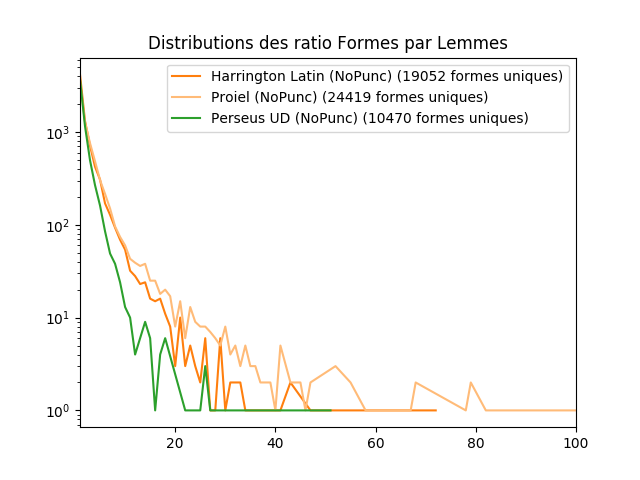
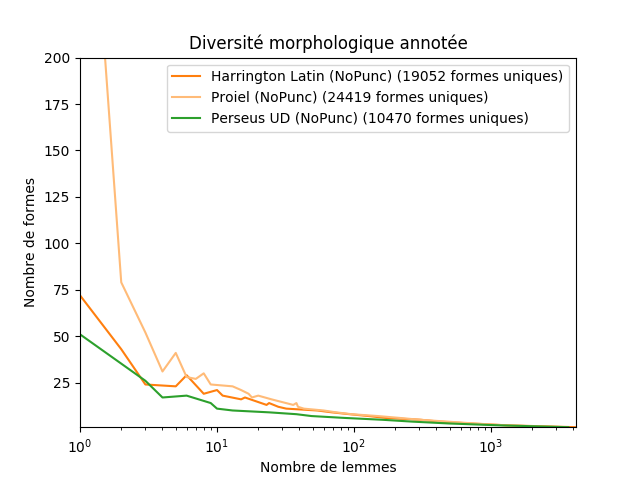
Fixed a big bug on transpose

diff --git a/analysis/general_analysis/treebank_analysis.py b/analysis/general_analysis/treebank_analysis.py
@@ -2,7 +2,7 @@ from .corpus_analysis import time_analysis
 import collections
 from helpers.reader.curated import get_graph, get_texts, get_text_length_dict
 from helpers.metadata import wordcounts
-from helpers.treebanks import Corpora, flatten_doc_dict, Filtered_Corpora, doc_token_dict_sum, distribution
+from helpers.treebanks import Corpora, flatten_doc_dict, Filtered_Corpora, doc_token_dict_sum, distribution, idict
 import matplotlib.pyplot as plt
 import copy
 import pandas
@@ -18,7 +18,8 @@ def draw_tokens_representation(
         series, fname,
         title="Mots écrits par auteur vivant à une période donnée", template="{corpus} ({words} mots)",
         kind="line",
-        colors_index_offset=0, plot_kwargs=None, base_fig=None, dimension=(12, 14)):
+        colors_index_offset=0, plot_kwargs=None, base_fig=None, dimension=(12, 14),
+        ylabel=None, xlabel=None):
 
     """ Draw the series in one fig"""
     if plot_kwargs is None:
@@ -54,11 +55,21 @@ def draw_tokens_representation(
             **plot_kwargs
         )
         index += 1
+
+        if xlabel:
+            ax.set_xlabel(xlabel)
+            xlabel = None
+        if ylabel:
+            ax.set_ylabel(ylabel)
+            ylabel = None
+
         fig.add_axes(ax)
 
     # Put a legend below current axis
     fig.legend(loc='upper center', bbox_to_anchor=(0.5, -0.05), fancybox=True, shadow=True, ncol=5)
 
+
+    # Labels
     plt.savefig(fname)
     return fig
 
@@ -132,7 +143,10 @@ def draw_series_graph(data, hypothetical):
             (serie.name, serie.word_count, serie.tokens_per_year)
             for serie in data
         ],
-        fname="results/analysis/treebank_analysis/treebank_representativite.png"
+        fname="results/analysis/treebank_analysis/treebank_representativite.png",
+        title="Représentatitivité des mots annotés",
+        ylabel="Nombre de mots",
+        xlabel="Année contemporaire à l'auteur"
     )
     draw_tokens_representation(
         series=[
@@ -140,7 +154,9 @@ def draw_series_graph(data, hypothetical):
             for serie in data
         ] + [(hypothetical.name, hypothetical.word_count, hypothetical.accumulated_tokens)],
         title="Mot accumulés",
-        fname="results/analysis/treebank_analysis/treebank_accumulation.png"
+        fname="results/analysis/treebank_analysis/treebank_accumulation.png",
+        ylabel="Nombre de mots accumulés depuis le premier auteur",
+        xlabel="Année contemporaire à l'auteur"
     )
     draw_tokens_representation(
         series=[
@@ -150,7 +166,10 @@ def draw_series_graph(data, hypothetical):
         fname="results/analysis/treebank_analysis/treebank_representativite_texts.png",
         kind="bar",
         template="{corpus} ({words} textes)",
-        title="Textes écrits par auteur vivant à une période donnée"
+        title="Représentatitivité des textes annotés",
+        ylabel="Nombre de textes présents",
+        xlabel="Année contemporaire à l'auteur",
+        plot_kwargs={"xticks": [x for x in range(-250, 800, 50)]}
     )
     draw_tokens_representation(
         series=[
@@ -163,8 +182,10 @@ def draw_series_graph(data, hypothetical):
         ],
         fname="results/analysis/treebank_analysis/treebank_representativite_relatif.png",
         template="{corpus} ({words} mots)",
-        title="Couverture (en %) du corpus latin comptabilisé (Perseus Catalog et Capitains) ",
-        colors_index_offset=2
+        title="Représentativité des corpus annotés",
+        colors_index_offset=2,
+        ylabel="Portion du corpus comptabilisé (Capitains + Perseus Catalog) en % de mots",
+        xlabel="Année"
     )
 
 
@@ -185,14 +206,19 @@ def draw_lemma_distribution():
         (
             corpus.name,
             corpus.diversity["Formes Uniques"],
-            pandas.Series(distribution({k: len(v) for k, v in corpus.lemma_forms.items()}))
+            pandas.Series(idict(
+                distribution(
+                        {k: len(v) for k, v in corpus.lemma_forms.items()}
+                )
+            ))
         )
         for corpus in Filtered_Corpora
     ], fname="results/analysis/treebank_analysis/treebank_distributions_form_lemme_ratio.png",
         template="{corpus} ({words} formes uniques)",
-        title="Distributions des ratio Formes par Lemmes",
+        title="Diversité morphologique annotée",
         colors_index_offset=2,
-        plot_kwargs={"logy": True, "xlim": (1, 100)}, dimension=None
+        plot_kwargs={"logx": True, "xlim": (1, None), "ylim": (1, 100)}, dimension=None,
+        ylabel="Nombre de formes", xlabel="Nombre de lemmes"
     )
 
 
@@ -202,42 +228,45 @@ def draw_zipf():
         (
             corpus.name,
             corpus.diversity["Formes Uniques"],
-            pandas.Series(distribution(corpus.occurence_count[0]))
+            pandas.Series(idict(distribution(corpus.occurence_count[0])))
         )
         for corpus in Filtered_Corpora
     ], fname="results/analysis/treebank_analysis/treebank_distributions.png",
         template="{corpus} ({words} formes uniques)",
         title="Distributions des formes",
         colors_index_offset=2,
-        plot_kwargs={"loglog": True}, dimension=None
+        plot_kwargs={"loglog": True}, dimension=None,
+        ylabel="Fréquence du mot", xlabel="Rang du mot"
     )
 
     draw_tokens_representation([
         (
             corpus.name,
             corpus.diversity["Lemmas Uniques"],
-            pandas.Series(distribution(corpus.occurence_count[1]))
+            pandas.Series(idict(distribution(corpus.occurence_count[1])))
         )
         for corpus in Filtered_Corpora
     ], fname="results/analysis/treebank_analysis/treebank_distributions_lemmes_formes.png",
         template="{corpus} ({words} lemmes uniques)",
         title="Distributions des lemmes et formes",
         colors_index_offset=2,
-        plot_kwargs={"loglog": True, "linestyle": "dashed"}, base_fig=forme_fig, dimension=None
+        plot_kwargs={"loglog": True, "linestyle": "dashed"}, base_fig=forme_fig, dimension=None,
+        ylabel="Distribution des formes et lemmes", xlabel="Rang de la forme ou de la valeur"
     )
 
     draw_tokens_representation([
         (
             corpus.name,
             corpus.diversity["Lemmas Uniques"],
-            pandas.Series(distribution(corpus.occurence_count[1]))
+            pandas.Series(idict(distribution(corpus.occurence_count[1])))
         )
         for corpus in Filtered_Corpora
     ], fname="results/analysis/treebank_analysis/treebank_distributions_lemmes.png",
         template="{corpus} ({words} lemmes uniques)",
         title="Distributions des lemmes",
         colors_index_offset=2,
-        plot_kwargs={"loglog": True}, dimension=None
+        plot_kwargs={"loglog": True}, dimension=None,
+        ylabel="Distribution des lemmes", xlabel="Rang du lemme"
     )
 
 

diff --git a/helpers/treebanks/__init__.py b/helpers/treebanks/__init__.py
@@ -1,6 +1,6 @@
 from .xml import PerseidsXMLCorpus
 from .conllu import ConlluTreebank
-from .utils import flatten_doc_dict, doc_token_dict_sum, distribution
+from .utils import flatten_doc_dict, doc_token_dict_sum, distribution, idict
 
 
 Harrington = PerseidsXMLCorpus(

diff --git a/helpers/treebanks/utils.py b/helpers/treebanks/utils.py
@@ -37,3 +37,7 @@ def distribution(occurence):
     for key, counter in occurence.items():
         x[counter] += 1
     return x
+
+
+def idict(dico):
+    return {v: k for k, v in dico.items()}

diff --git a/results/analysis/treebank_analysis/treebank_Perseus UD.md b/results/analysis/treebank_analysis/treebank_Perseus UD.md
@@ -1,14 +1,14 @@
 | Documents                                                        | Tokens     |
 | --                                                               | --         |
-| urn:cts:latinLit:phi0631.phi001.perseus-lat2                     | 4999       |
-| urn:cts:latinLit:phi1221.phi007.perseus-lat2                     | 708        |
 | urn:cts:greekLit:tlg0031.tlg027.perseus-lat2                     | 2001       |
-| urn:cts:latinLit:phi1348.abo012.perseus-lat2                     | 2046       |
-| urn:cts:latinLit:phi0474.phi013.perseus-lat2                     | 1897       |
-| urn:cts:latinLit:phi0975.phi001.perseus-lat2                     | 4116       |
 | urn:cts:latinLit:phi0448.phi001.perseus-lat2                     | 352        |
-| urn:cts:latinLit:phi0959.phi006.perseus-lat2                     | 2652       |
-| urn:cts:latinLit:phi0690.phi003.perseus-lat2                     | 776        |
-| urn:cts:latinLit:phi0620.phi001.perseus-lat2                     | 2776       |
-| urn:cts:latinLit:phi0972.phi001.perseus-lat2                     | 5949       |
+| urn:cts:latinLit:phi1221.phi007.perseus-lat2                     | 708        |
 | urn:cts:latinLit:phi1351.phi005.perseus-lat2                     | 866        |
+| urn:cts:latinLit:phi0690.phi003.perseus-lat2                     | 776        |
+| urn:cts:latinLit:phi0975.phi001.perseus-lat2                     | 4116       |
+| urn:cts:latinLit:phi0972.phi001.perseus-lat2                     | 5949       |
+| urn:cts:latinLit:phi1348.abo012.perseus-lat2                     | 2046       |
+| urn:cts:latinLit:phi0959.phi006.perseus-lat2                     | 2652       |
+| urn:cts:latinLit:phi0474.phi013.perseus-lat2                     | 1897       |
+| urn:cts:latinLit:phi0620.phi001.perseus-lat2                     | 2776       |
+| urn:cts:latinLit:phi0631.phi001.perseus-lat2                     | 4999       |

diff --git a/results/analysis/treebank_analysis/treebank_Harrington Latin.md b/results/analysis/treebank_analysis/treebank_Harrington Latin.md
@@ -1,13 +1,13 @@
 | Documents                                                        | Tokens     |
 | --                                                               | --         |
-| urn:cts:latinLit:phi0474.phi013.perseus-lat2                     | 1241       |
-| urn:cts:latinLit:phi0474.phi024.perseus-lat2                     | 1756       |
+| urn:cts:latinLit:phi0972.phi001.perseus-lat2                     | 9190       |
 | urn:cts:latinLit:phi1276.phi001.perseus-lat2                     | 17265      |
 | urn:cts:latinLit:phi0448.phi001.perseus-lat2                     | 15017      |
-| urn:cts:latinLit:phi0959.phi006.perseus-lat2                     | 13018      |
-| urn:cts:latinLit:phi0690.phi003.perseus-lat2                     | 7307       |
-| urn:cts:latinLit:phi0472.phi001.perseus-lat2                     | 2137       |
-| urn:cts:latinLit:phi0660.phi003.perseus-lat2                     | 313        |
 | urn:cts:latinLit:phi0959.phi001.perseus-lat2                     | 3897       |
 | urn:cts:latinLit:phi1221.phi007.perseus-lat2                     | 2970       |
-| urn:cts:latinLit:phi0972.phi001.perseus-lat2                     | 9190       |
+| urn:cts:latinLit:phi0472.phi001.perseus-lat2                     | 2137       |
+| urn:cts:latinLit:phi0690.phi003.perseus-lat2                     | 7307       |
+| urn:cts:latinLit:phi0959.phi006.perseus-lat2                     | 13018      |
+| urn:cts:latinLit:phi0660.phi003.perseus-lat2                     | 313        |
+| urn:cts:latinLit:phi0474.phi024.perseus-lat2                     | 1756       |
+| urn:cts:latinLit:phi0474.phi013.perseus-lat2                     | 1241       |
